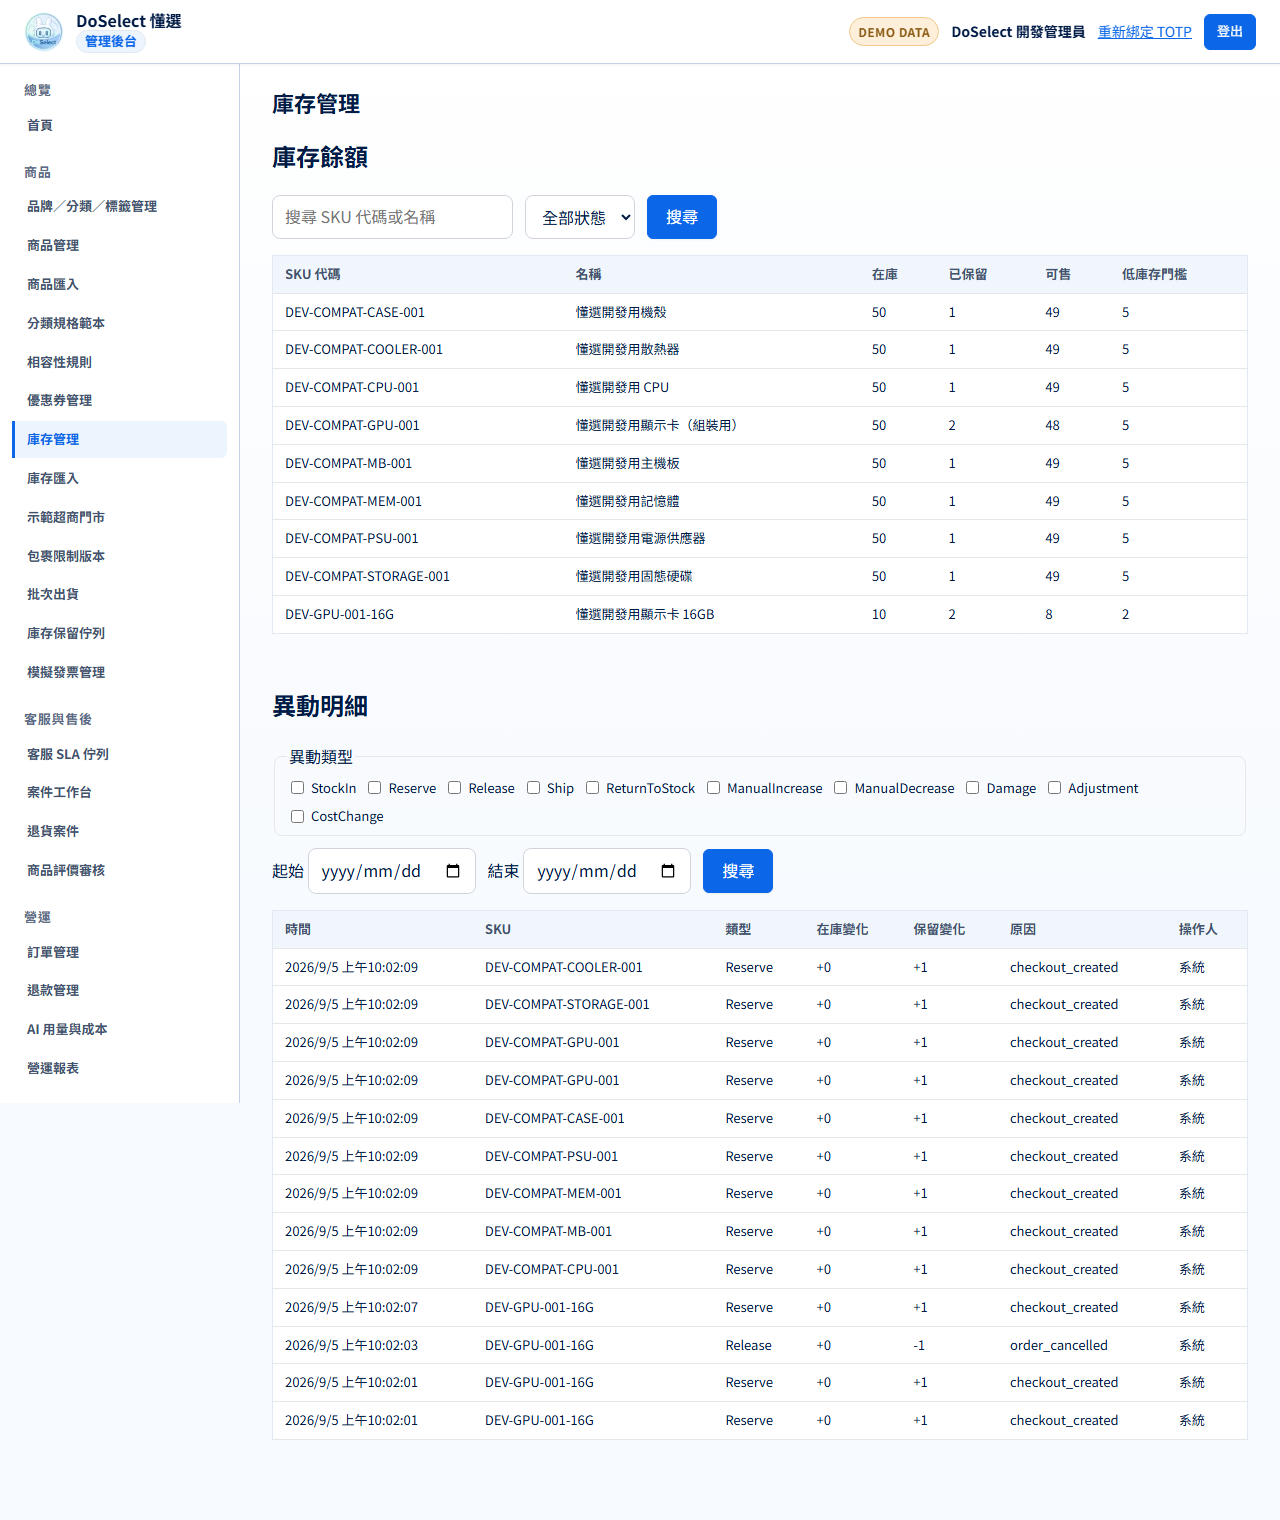
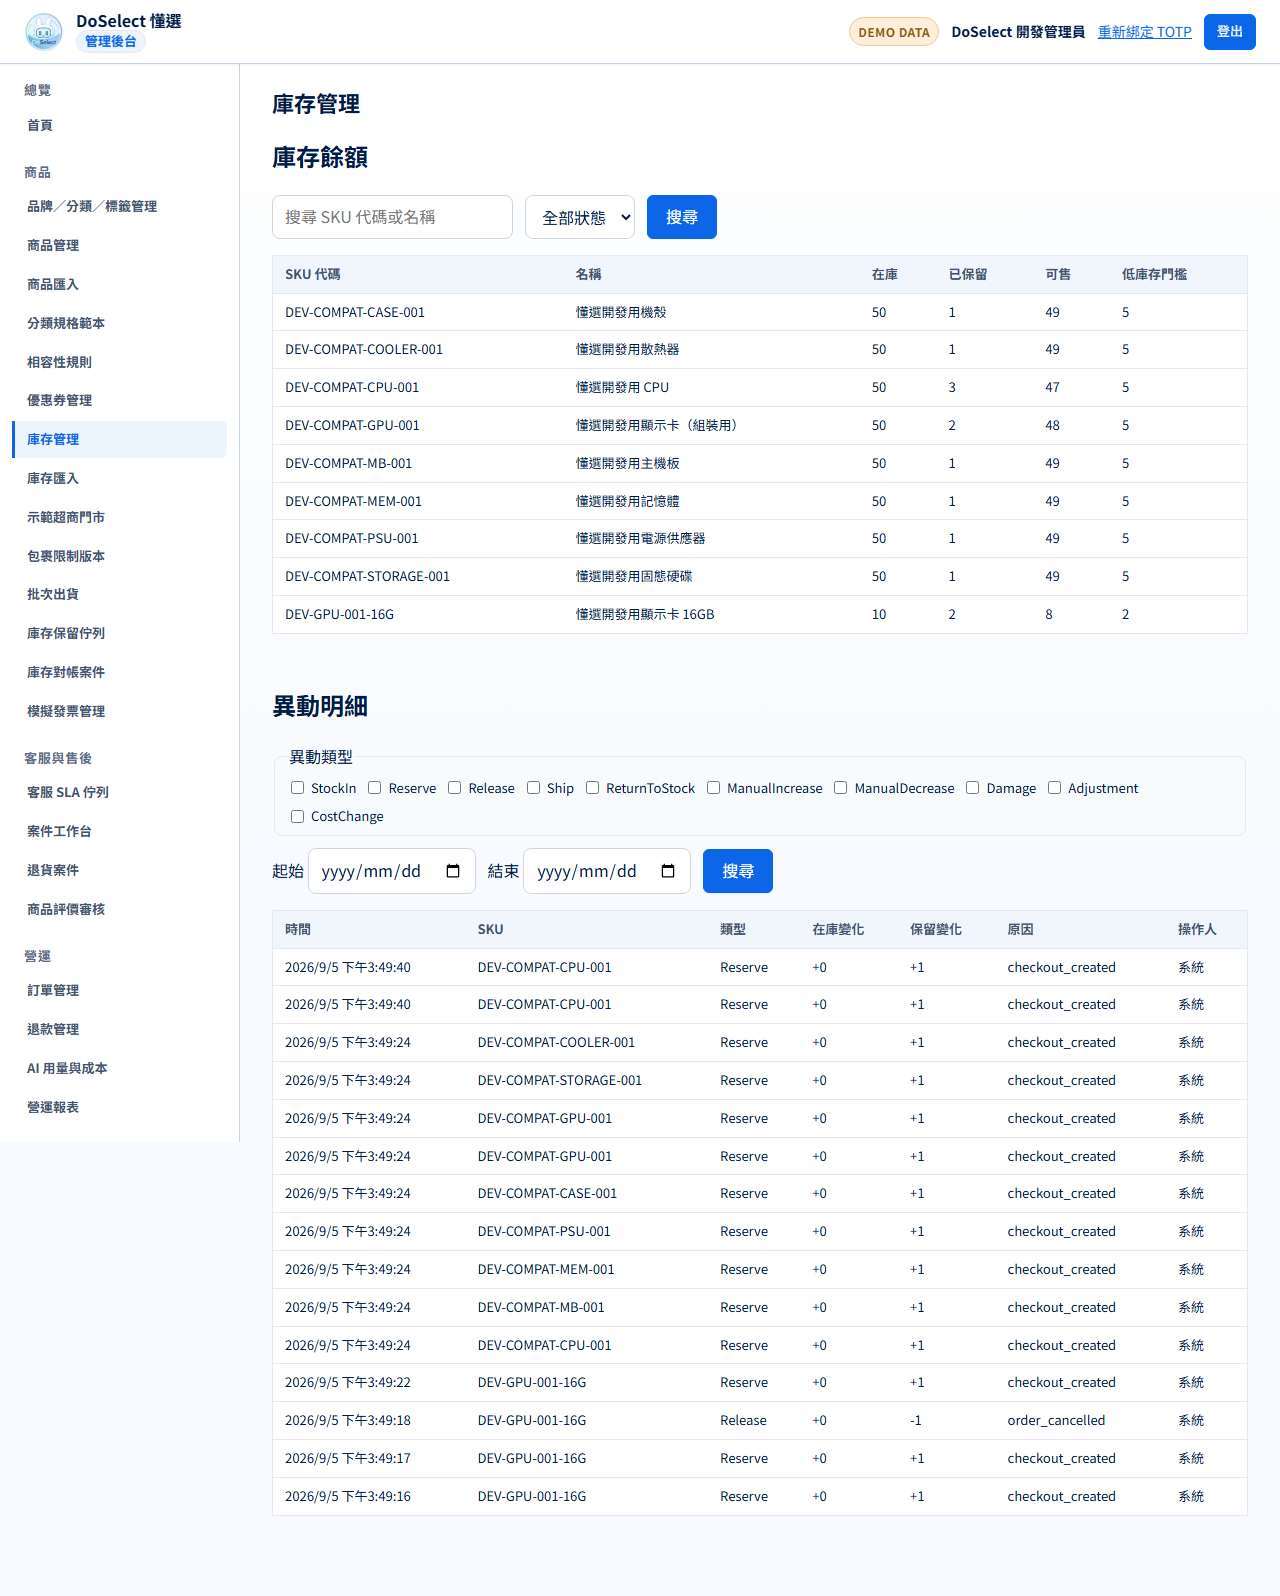
test(frontend): verify rebased UI and publish sanitized review evidence

diff --git a/FP.dev/frontend/customer-web/e2e/customer.spec.ts b/FP.dev/frontend/customer-web/e2e/customer.spec.ts
@@ -676,3 +676,19 @@ test('visual review uses real catalog member and support journeys', async ({ pag
   await expect(page.getByLabel('新增訊息')).toHaveCount(0)
   await captureVisualEvidence(page, 'real-member-support-cancelled')
 })
+
+test('the home page supports keyboard entry and 200 percent content scaling with reduced motion', async ({ page }) => {
+  await page.emulateMedia({ reducedMotion: 'reduce' })
+  await page.setViewportSize({ width: 1280, height: 900 })
+  await page.goto('/')
+  await page.keyboard.press('Tab')
+  await expect(page.getByRole('link', { name: '跳到主要內容' })).toBeFocused()
+  await page.keyboard.press('Enter')
+  await expect(page.locator('#main-content')).toBeFocused()
+  await page.evaluate(() => { document.documentElement.style.zoom = '2' })
+  await expect(page.getByRole('link', { name: /自由組裝/ })).toBeVisible()
+  await expect.poll(() => page.evaluate(() => document.documentElement.scrollWidth - document.documentElement.clientWidth)).toBeLessThanOrEqual(1)
+  await page.getByRole('link', { name: /自由組裝/ }).focus()
+  await page.keyboard.press('Enter')
+  await expect(page).toHaveURL(/\/builds\/new$/)
+})

diff --git a/FP.dev/frontend/customer-web/src/features/catalog/components/ProductCard.spec.ts b/FP.dev/frontend/customer-web/src/features/catalog/components/ProductCard.spec.ts
@@ -30,11 +30,11 @@ describe('ProductCard', () => {
     expect(wrapper.find('.product-card__price-original').text()).toBe('NT$100')
     expect(wrapper.text()).toContain('尚無商品圖片')
     const product = wrapper.props('product')
-    await wrapper.setProps({ product: { ...product, primaryImage: { url: '/broken.png', alt: '商品照片' } } })
+    await wrapper.setProps({ product: { ...product, primaryImage: { url: '/broken.png', alt: '商品照片', width: 400, height: 300 } } })
     await wrapper.get('img').trigger('error')
     expect(wrapper.find('img').exists()).toBe(false)
     expect(wrapper.text()).toContain('圖片暫時無法載入')
-    await wrapper.setProps({ product: { ...product, primaryImage: { url: '/replacement.png', alt: '商品照片' } } })
+    await wrapper.setProps({ product: { ...product, primaryImage: { url: '/replacement.png', alt: '商品照片', width: 400, height: 300 } } })
     expect(wrapper.get('img').attributes('src')).toBe('/replacement.png')
   })
 })

diff --git a/FP.dev/frontend/customer-web/src/style.css b/FP.dev/frontend/customer-web/src/style.css
@@ -1314,6 +1314,18 @@ textarea {
   color: var(--color-text);
 }
 
+/* Keep native checkout/account controls consistent with the shared form fields. */
+:where(.checkout-page, .profile-page, .addresses-page) :is(input:not([type='checkbox']):not([type='radio']), select, textarea) {
+  box-sizing: border-box;
+  width: 100%;
+  min-width: 0;
+  min-height: 2.75rem;
+  padding: var(--space-2) var(--space-3);
+  border: 1px solid var(--color-border);
+  border-radius: var(--radius-md);
+  font: inherit;
+}
+
 input:hover,
 select:hover,
 textarea:hover {

diff --git a/FP.dev/frontend/review/pr82-0905/README.md b/FP.dev/frontend/review/pr82-0905/README.md
@@ -1,0 +1,53 @@
+# PR #82：0905 視覺復原與整合驗收
+
+此目錄取代 PR 舊說明中已不存在的 brand-v1～v4、reference-aligned 與影片證據。舊檔案不視為本次驗收結果。畫面來自目前 Vue 應用的 production preview，使用隔離 SQL Server 測試資料庫。
+
+## 本次修正
+
+- 整合最新 dev 的商品圖片、庫存對帳、退貨審核欄位與 COD 出貨流程。
+- 後台導覽與 route guard 共用角色規則；加入手機收合選單、主要內容跳轉及庫存表格鍵盤捲動區。
+- 商品分類／品牌顯示可見標籤與「全部」預設值；商品圖片失敗時提供替代狀態，換圖後可恢復。
+- AI 既有零件改用站內商品選擇器與中文分類／規格，未填完的零件會阻止搜尋，避免靜默丟失使用者輸入。
+- 登入入口導向登入頁；結帳與會員表單統一 tokens、控制項高度與間距。
+- 開發用動效面板預設收合；production 不包含該面板。
+
+## 畫面索引
+
+每組包含 360、768、1280px，總計 78 張。截圖等待字型及載入狀態完成，啟用 reduced-motion，並檢查頁面沒有水平溢位。
+
+| 範圍 | 手機代表畫面 |
+|---|---|
+| 首頁 | [首頁](screenshots/real-customer-home-360.png) |
+| 商品與 AI | [商品](screenshots/real-customer-products-360.png)、[AI 搜尋](screenshots/real-customer-ai-search-360.png) |
+| 結帳 | [結帳](screenshots/real-customer-checkout-360.png)、[付款完成](screenshots/real-customer-payment-complete-360.png) |
+| 會員 | [資料](screenshots/real-member-profile-360.png)、[地址](screenshots/real-member-addresses-360.png) |
+| 客服 | [長訊息](screenshots/real-member-support-long-message-360.png)、[取消後](screenshots/real-member-support-cancelled-360.png) |
+| 後台 | [工作台](screenshots/real-admin-dashboard-360.png)、[庫存](screenshots/real-admin-inventory-360.png)、[案件](screenshots/real-admin-case-workbench-360.png) |
+| 驗證 | [TOTP 綁定](screenshots/real-admin-totp-enroll-360.png)、[復原碼遮罩](screenshots/real-admin-recovery-codes-redacted-360.png)、[錯誤驗證碼](screenshots/real-admin-totp-invalid-360.png) |
+
+密碼、TOTP 金鑰、QR code、復原碼均已遮罩。失敗 trace、錄影、登入狀態與原始測試輸出不放入版本庫。
+
+## 可重現方式
+
+先依專案指南準備 Node 24、.NET 10、SQL Server 2025、EF tool 與 npm dependencies，再從 `FP.dev` 執行：
+
+```powershell
+$env:E2E_PRODUCTION_PREVIEW = 'true'
+$env:VISUAL_REVIEW_DIR = Join-Path $PWD 'frontend/review/pr82-0905/screenshots'
+./scripts/test-customer-e2e.ps1 -All
+```
+
+腳本建立隨機命名的 `DoSelectE2E_*` 資料庫，完成後清理該隔離資料庫。請先停止使用 5126、5173、5174 的開發伺服器。平日不設定 `VISUAL_REVIEW_DIR` 就不會覆寫截圖。
+
+## 驗證範圍
+
+- 前台：631 tests；後台：477 tests。typecheck、零警告 lint、production build 通過。核心 line coverage：88.67%／72.90%。
+- 後端：3,073 tests（Domain 490、Application 608、Infrastructure 1,177、API 798）。Domain + Application line coverage 88.49%，高於 70% gate。
+- OpenAPI export／generation 無差異；套件來源與拒絕路徑、120 筆 AI evaluation contract、格式與漏洞檢查通過。
+- Gitleaks 8.30.1：Git 歷史與前後台 production bundle 無命中。
+- 真實旅程涵蓋會員登入、訪客驗證／訂單／取消、商品、客服建立與取消、TOTP、購物車／結帳／模擬付款／發票、COD 宅配與門市取貨。
+- Production Chromium：16 條旅程全部通過（包含下列鍵盤與縮放測試）。
+- 鍵盤 Skip link、Enter 導覽、reduced-motion 與 200% CSS 內容縮放另有瀏覽器測試；此縮放測試不等同所有瀏覽器原生縮放及所有輔助工具認證。
+- 財務總覽及評價審核的既有 E2E 使用 route fixtures。客服附件錯誤與 409、退貨狀態／禁用動作由頁面單元測試覆蓋；空白清單的截圖不宣稱涵蓋每種真實售後狀態。
+
+付款、發票及物流是專案既有模擬流程；AI 與 Email 未呼叫外部服務。這份證據針對本 PR 視覺與整合範圍，團隊尚未開發的功能仍依實作矩陣排程。
